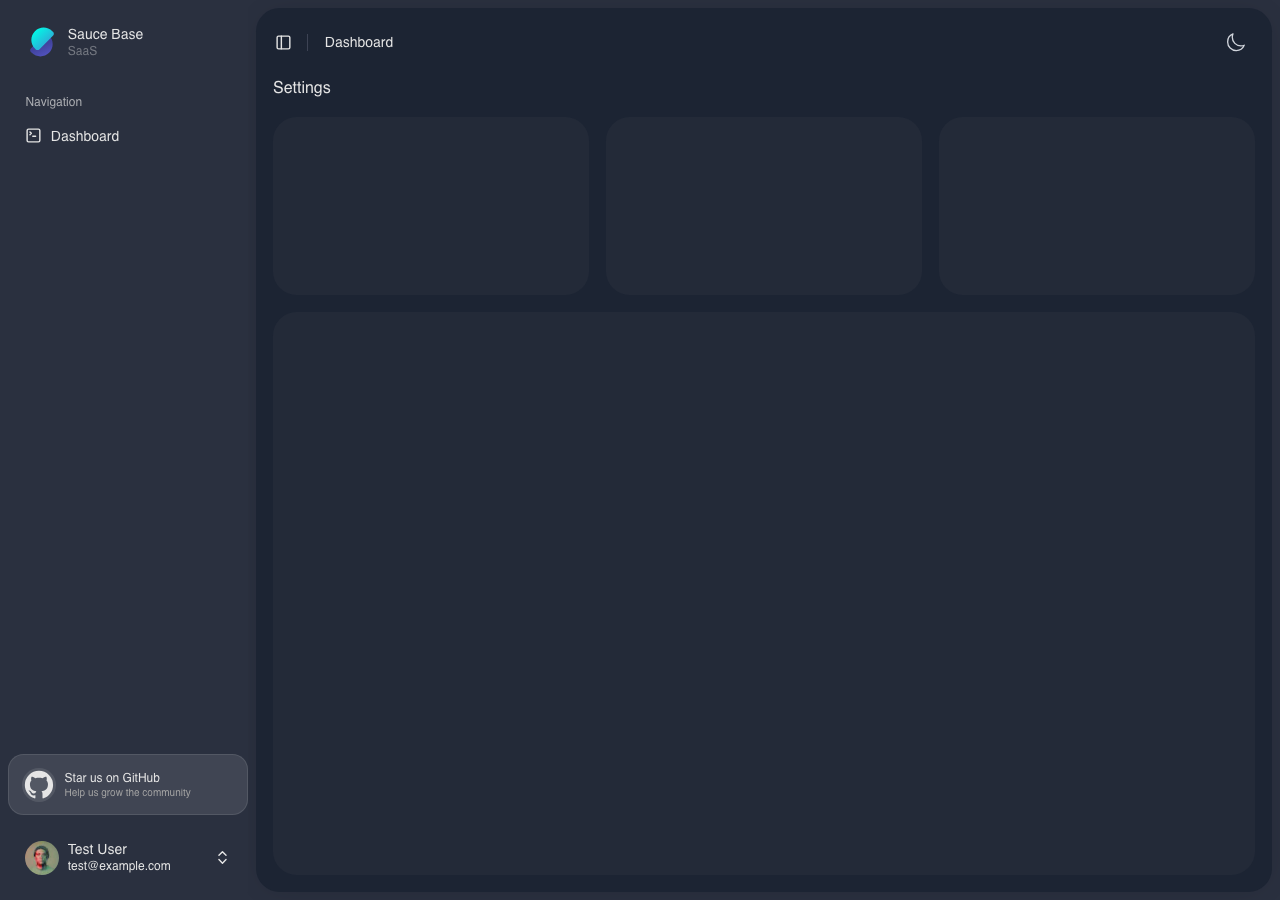
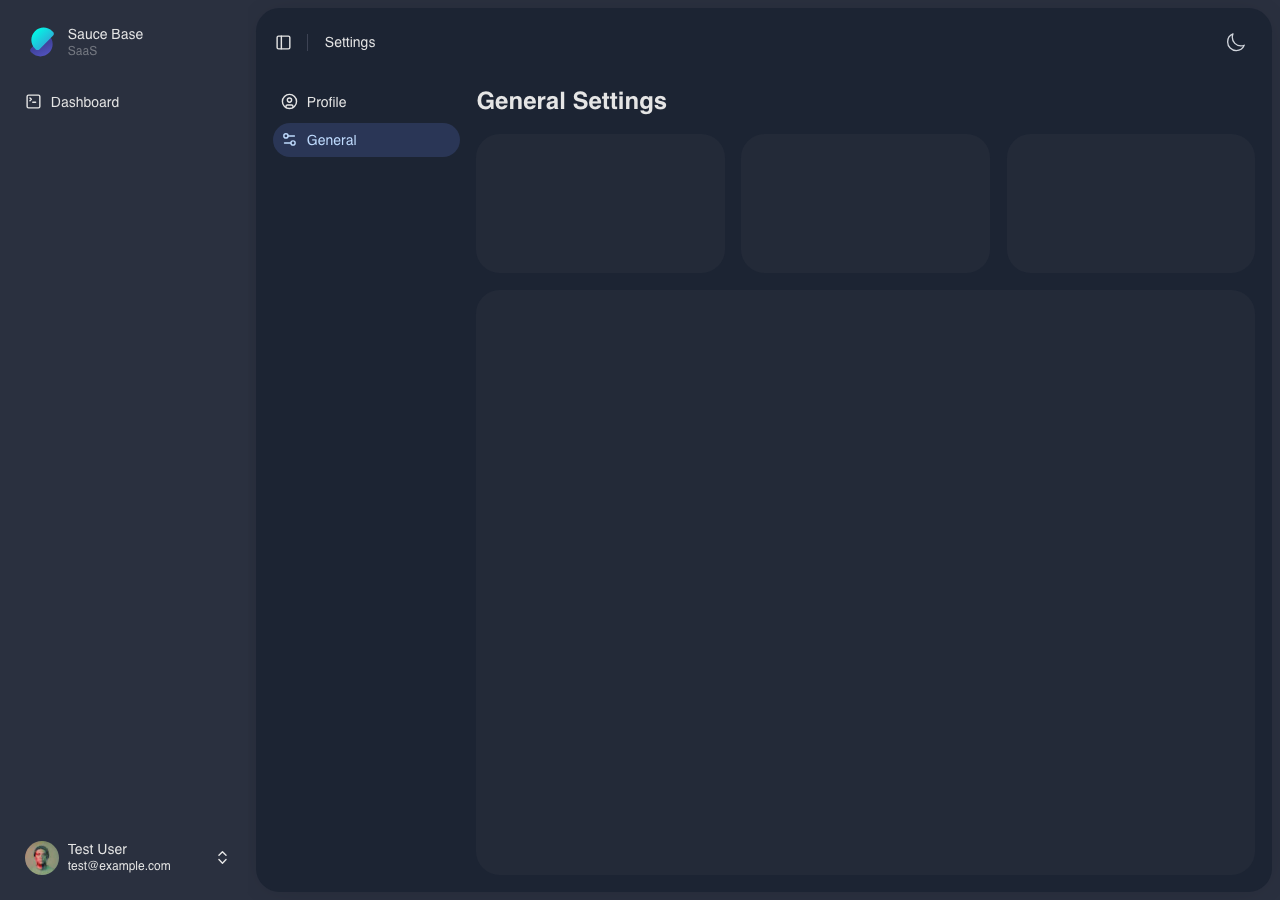
feat: add profile settings screenshots and update capture script

diff --git a/scripts/capture-screenshots.ts b/scripts/capture-screenshots.ts
@@ -46,6 +46,18 @@ const screenshots: ScreenshotConfig[] = [
     { name: 'dashboard-dark', route: '/dashboard', theme: 'dark', auth: true },
     { name: 'settings-light', route: '/settings', theme: 'light', auth: true },
     { name: 'settings-dark', route: '/settings', theme: 'dark', auth: true },
+    {
+        name: 'profile-dark',
+        route: '/auth/settings/profile',
+        theme: 'dark',
+        auth: true,
+    },
+    {
+        name: 'profile-light',
+        route: '/auth/settings/profile',
+        theme: 'light',
+        auth: true,
+    },
 ];
 
 // Test user credentials (from modules/Auth/tests/e2e/fixtures/users.ts)

diff --git a/resources/js/layouts/AppLayout.vue b/resources/js/layouts/AppLayout.vue
@@ -28,6 +28,8 @@ const props = defineProps<{
     }>;
 }>();
 
+//TODO: Investigate why this file is loading all icons from lucide-icons and being 836kb instead of the usual 4kb
+
 // Persist sidebar state across Inertia navigation
 const { isOpen } = useSidebarState();
 

diff --git a/README.md b/README.md
@@ -104,7 +104,15 @@ Built-in i18n (Portuguese + English), persistent dark/light mode, SSR support, R
 
 ![Settings - Dark Theme](public/images/screenshots/settings-dark.png)
 
----
+### Profile Settings
+
+**Light Theme**
+
+![Profile Settings - Light Theme](public/images/screenshots/profile-light.png)
+
+**Dark Theme**
+
+## ![Profile Settings - Dark Theme](public/images/screenshots/profile-dark.png)
 
 ### Prerequisites
 
